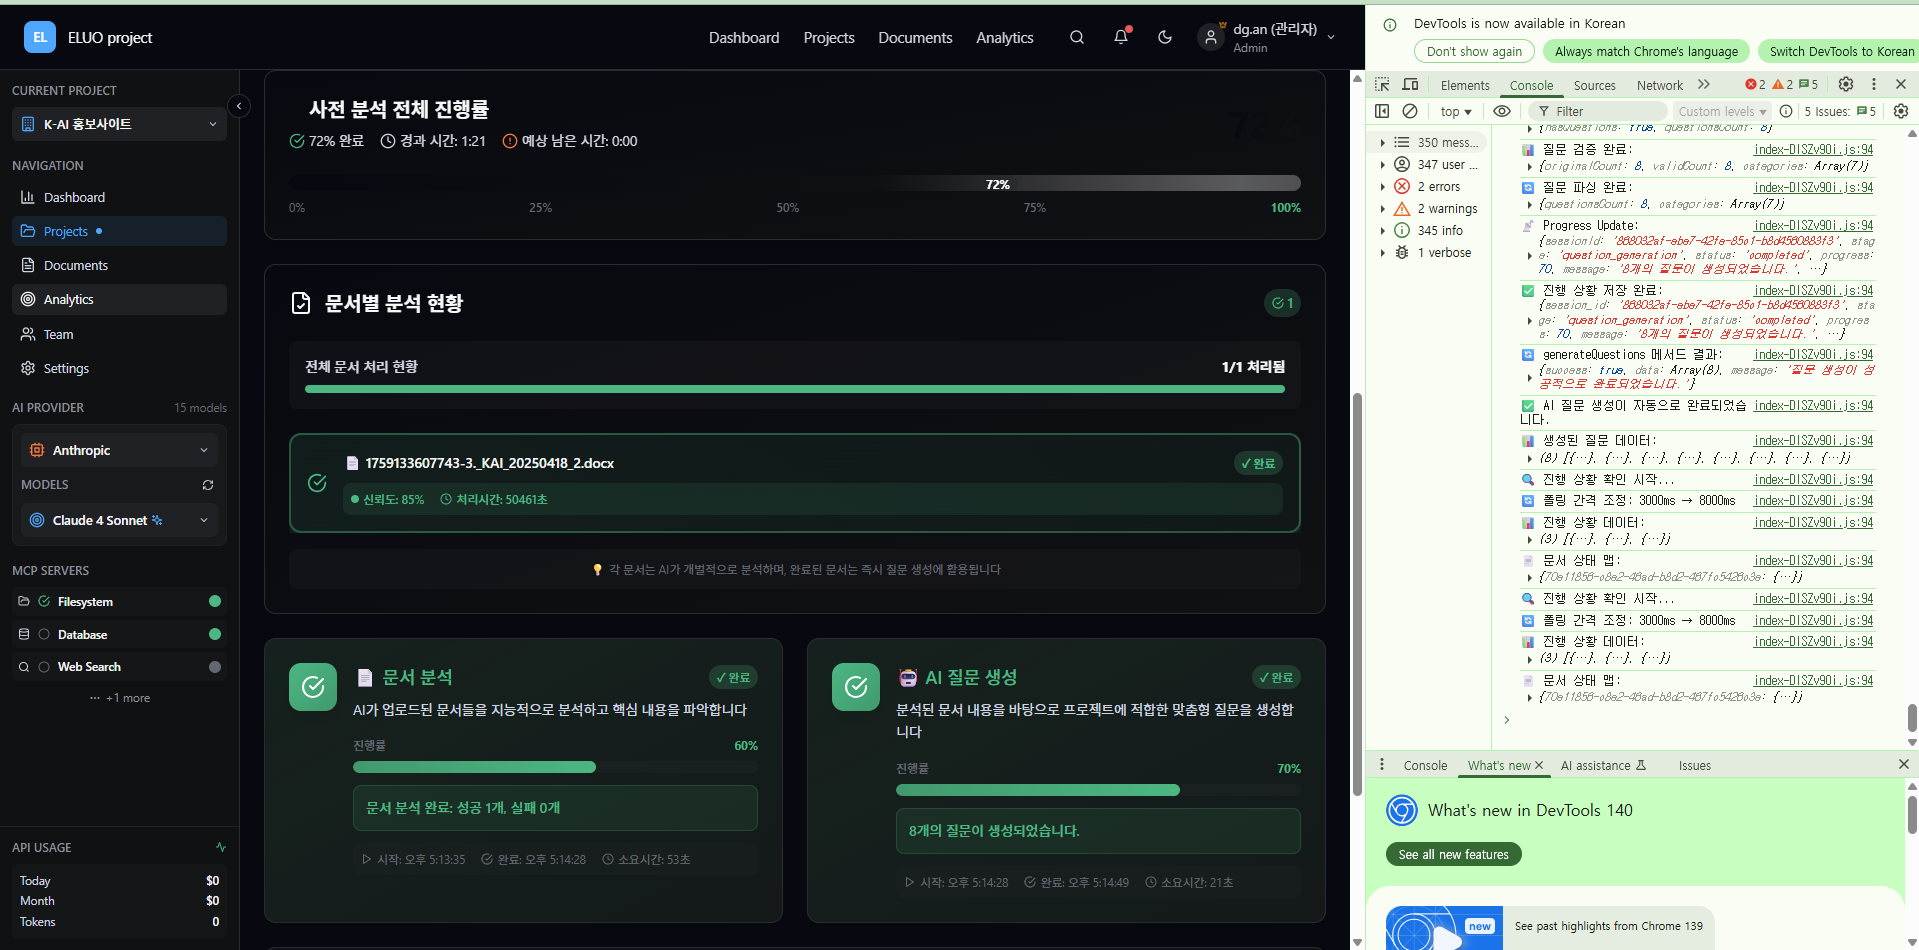
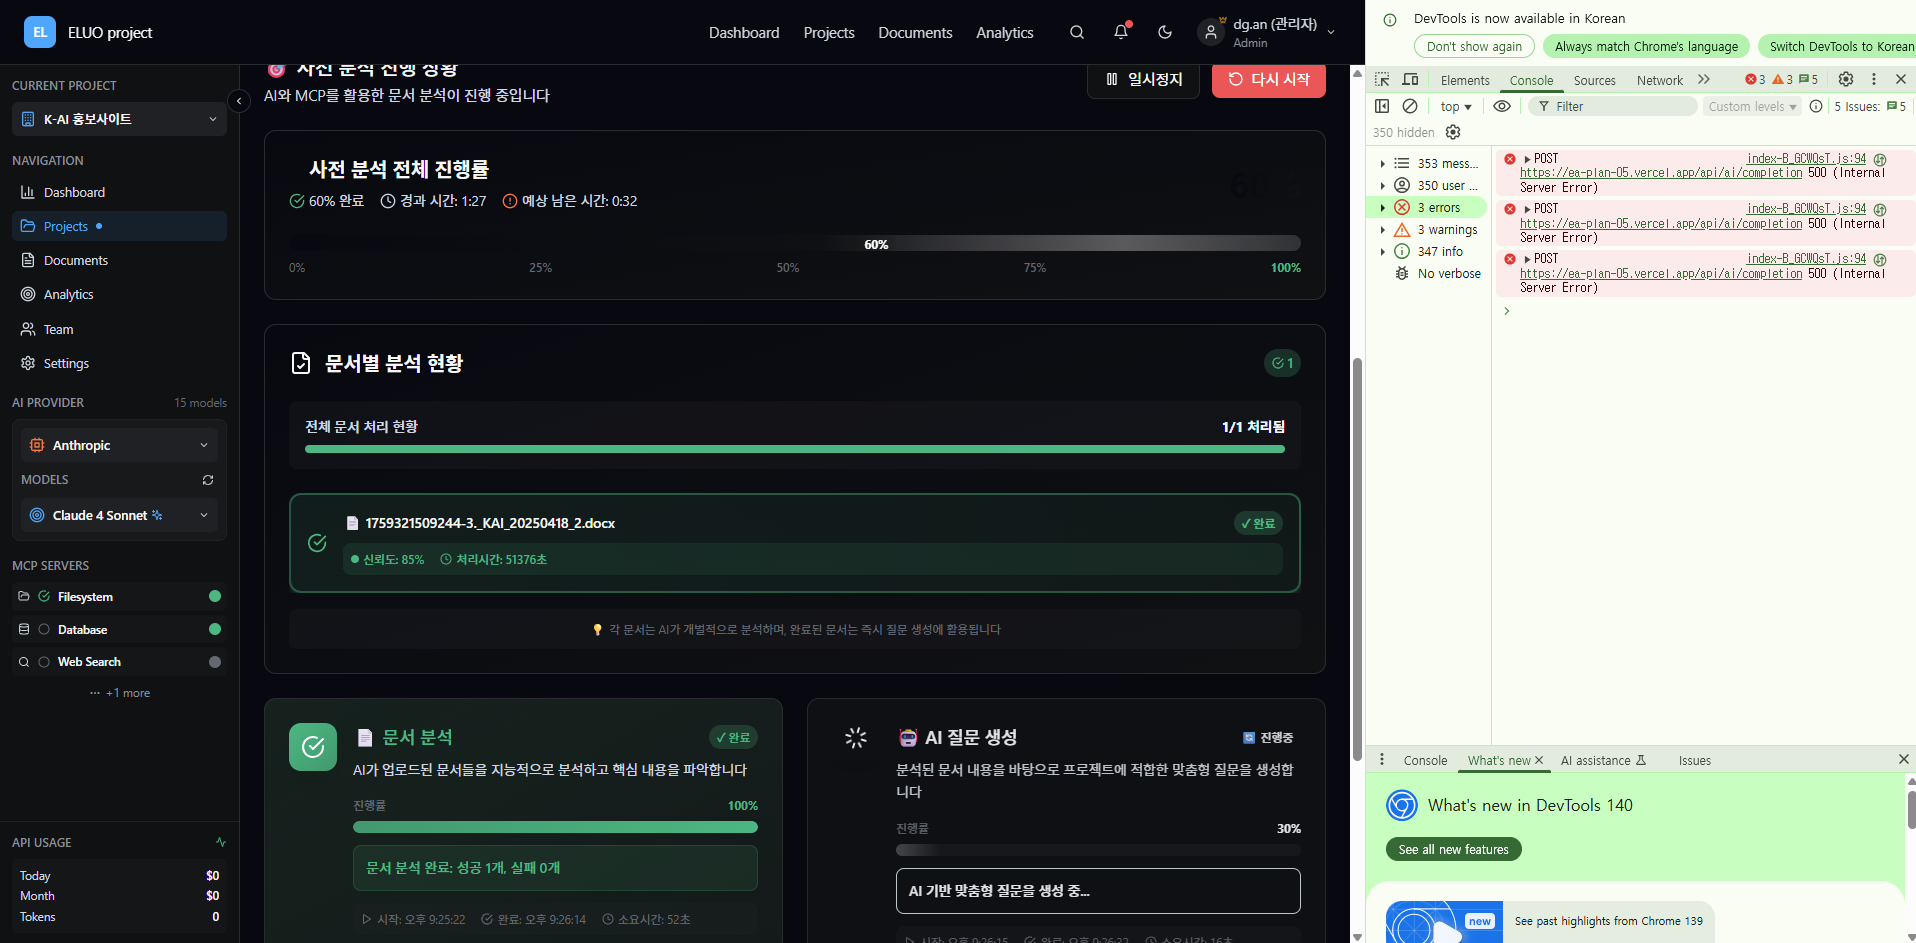
fix: 사전 분석 질문 생성 중복 실행 및 페이지 이동 문제 해결

diff --git a/src/services/preAnalysis/PreAnalysisService.ts b/src/services/preAnalysis/PreAnalysisService.ts
@@ -266,41 +266,16 @@ export class PreAnalysisService {
         timestamp: new Date(),
       });
 
-      // 문서 분석 완료 후 자동으로 AI 질문 생성 시작
+      // 문서 분석 완료
       console.log(`🔍 문서 분석 결과: 성공 ${successCount}개, 실패 ${errorCount}개, 총 ${totalDocuments}개`);
 
+      // 🔥 중요: 질문 생성은 AnalysisProgress 컴포넌트에서만 관리
+      // 중복 실행 방지를 위해 여기서는 질문 생성을 자동으로 트리거하지 않음
+      // AnalysisProgress 컴포넌트가 문서 분석 완료를 감지하고 질문 생성을 시작함
       if (successCount > 0) {
-        console.log('📝 문서 분석 완료, AI 질문 생성을 자동으로 시작합니다...');
-        console.log(`📍 세션 ID: ${sessionId}, 프로젝트 ID: ${projectId}`);
-
-        // 비동기로 질문 생성 시작 (await 하지 않음으로써 응답을 먼저 반환)
-        setTimeout(async () => {
-          try {
-            console.log('⏰ 1초 대기 완료, 이제 generateQuestions 메서드를 호출합니다...');
-
-            const questionResult = await this.generateQuestions(sessionId, {
-              categories: ['technical', 'business', 'risks', 'budget', 'timeline'],
-              maxQuestions: 20,
-              includeRequired: true,
-              customContext: '문서 분석이 완료된 프로젝트에 대한 추가 질문을 생성합니다.',
-              documentTypes: [DocumentCategory.TECHNICAL, DocumentCategory.BUSINESS, DocumentCategory.REQUIREMENTS]
-            });
-
-            console.log('🔄 generateQuestions 메서드 결과:', questionResult);
-
-            if (questionResult.success) {
-              console.log('✅ AI 질문 생성이 자동으로 완료되었습니다.');
-              console.log('📊 생성된 질문 데이터:', questionResult.data);
-            } else {
-              console.error('❌ AI 질문 생성 자동 실행 실패:', questionResult.error);
-            }
-          } catch (error) {
-            console.error('❌ AI 질문 생성 자동 실행 중 오류:', error);
-            console.error('❌ 오류 스택:', error instanceof Error ? error.stack : 'Stack trace not available');
-          }
-        }, 1000); // 1초 후 실행
+        console.log('✅ 문서 분석 완료 - AnalysisProgress 컴포넌트가 질문 생성을 자동으로 시작할 예정');
       } else {
-        console.warn('⚠ 성공한 문서가 없어서 AI 질문 생성을 건너뛰었습니다.');
+        console.warn('⚠ 성공한 문서가 없어서 질문 생성을 진행할 수 없습니다.');
       }
 
       return {

diff --git a/src/components/preAnalysis/PreAnalysisPanel.tsx b/src/components/preAnalysis/PreAnalysisPanel.tsx
@@ -326,13 +326,13 @@ export const PreAnalysisPanel = forwardRef<PreAnalysisPanelRef, PreAnalysisPanel
         } else {
           console.log('⏳ 질문 생성이 아직 완료되지 않음 - 잠시 대기 후 다시 확인');
 
-          // 최대 10초간 3초 간격으로 재확인
+          // 최대 20초간 3초 간격으로 재확인 (AnalysisProgress의 15초 대기 시간보다 여유있게 설정)
           let attempts = 0;
-          const maxAttempts = 3;
+          const maxAttempts = 6; // 3초 × 6회 = 최대 18초 대기
 
           const checkInterval = setInterval(async () => {
             attempts++;
-            console.log(`🔄 질문 생성 재확인 (${attempts}/${maxAttempts})`);
+            console.log(`🔄 질문 생성 재확인 (${attempts}/${maxAttempts}, ${attempts * 3}초 경과)`);
 
             if (currentSession && await verifyQuestionsGenerated(currentSession.id)) {
               console.log('✅ 질문 생성 재확인 성공 - questions 단계로 이동');
@@ -341,7 +341,7 @@ export const PreAnalysisPanel = forwardRef<PreAnalysisPanelRef, PreAnalysisPanel
                 onStepChange('questions');
               }
             } else if (attempts >= maxAttempts) {
-              console.warn('⚠ 질문 생성 확인 시간 초과 - 강제로 questions 단계로 이동');
+              console.warn('⚠ 질문 생성 확인 시간 초과 (18초) - 강제로 questions 단계로 이동');
               clearInterval(checkInterval);
               if (onStepChange) {
                 onStepChange('questions');
